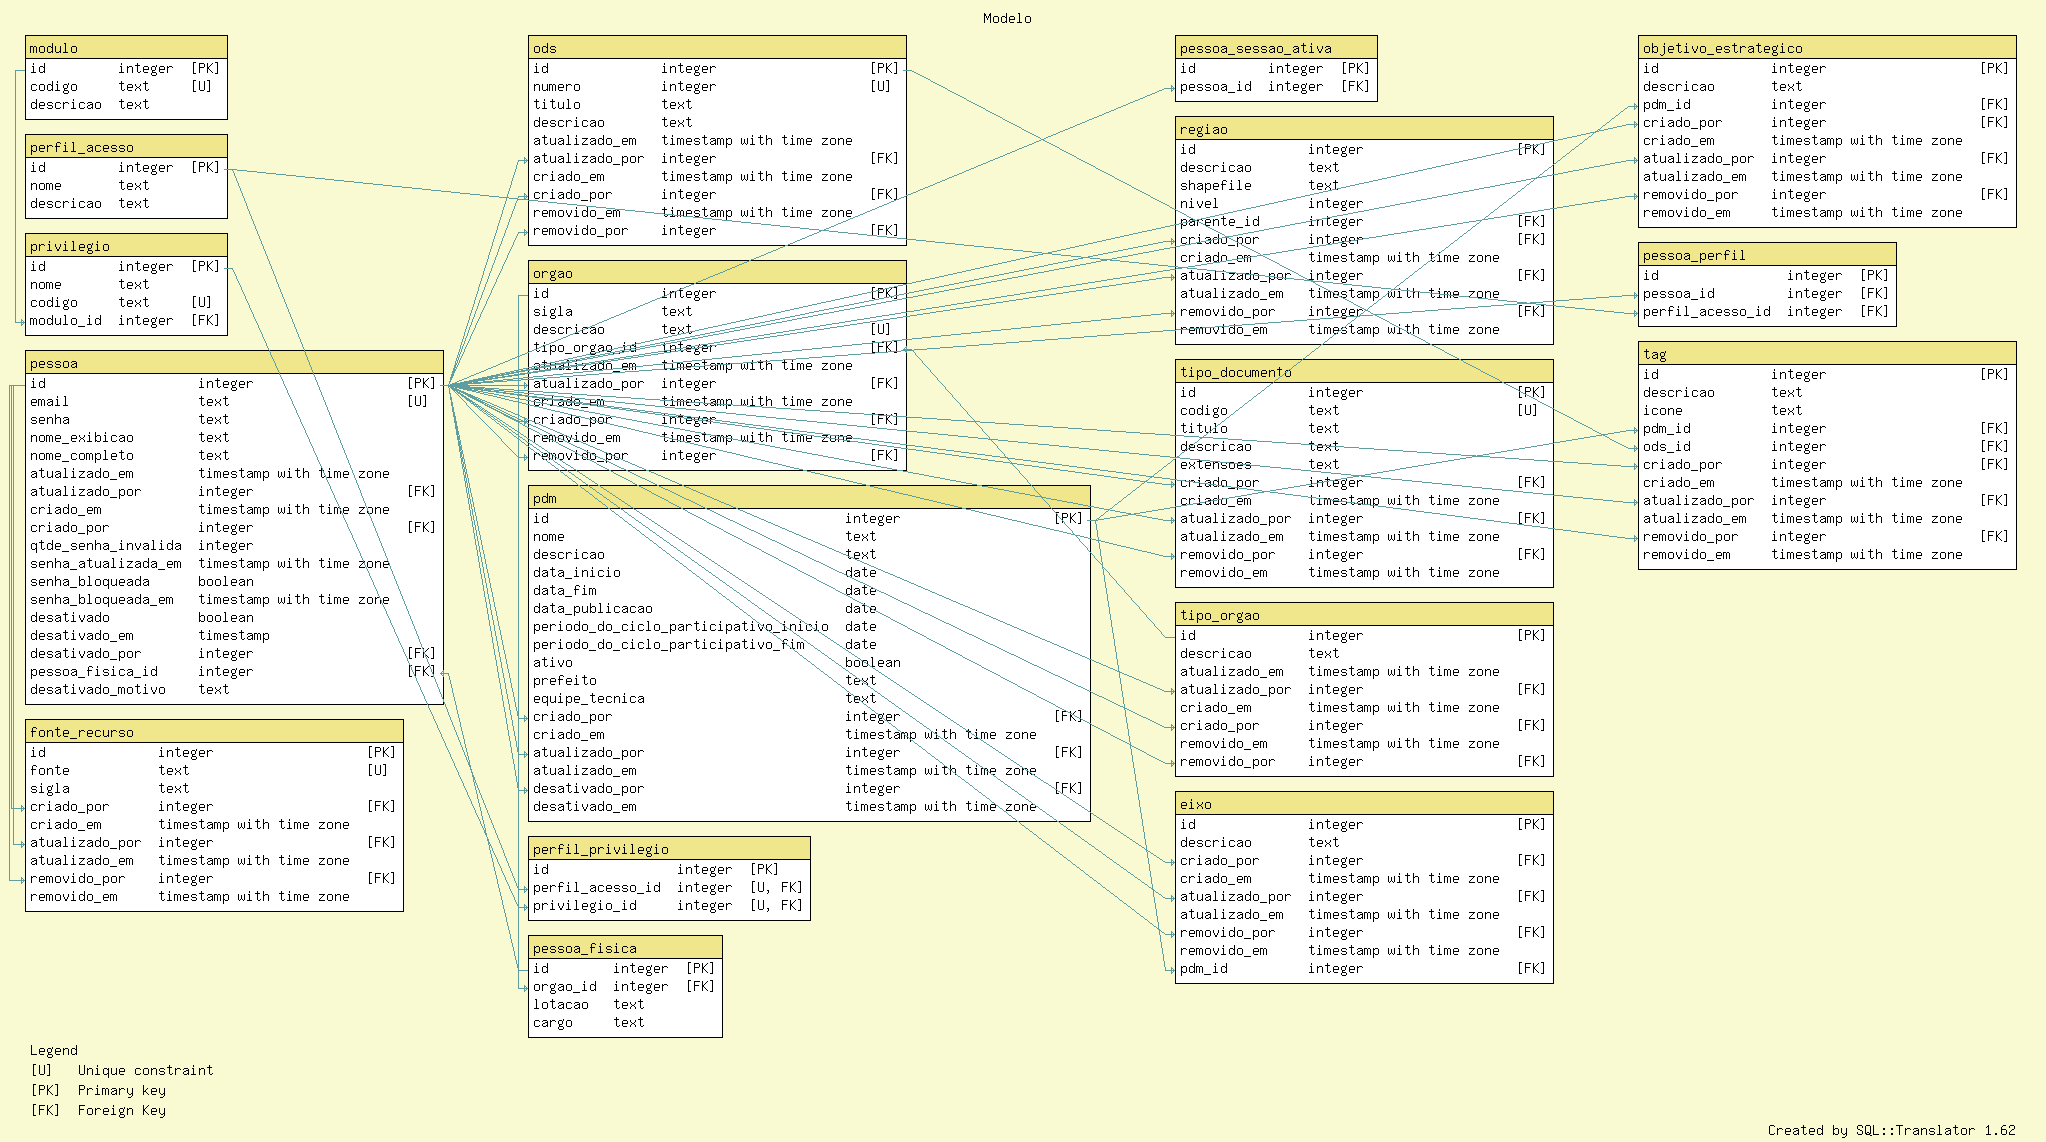
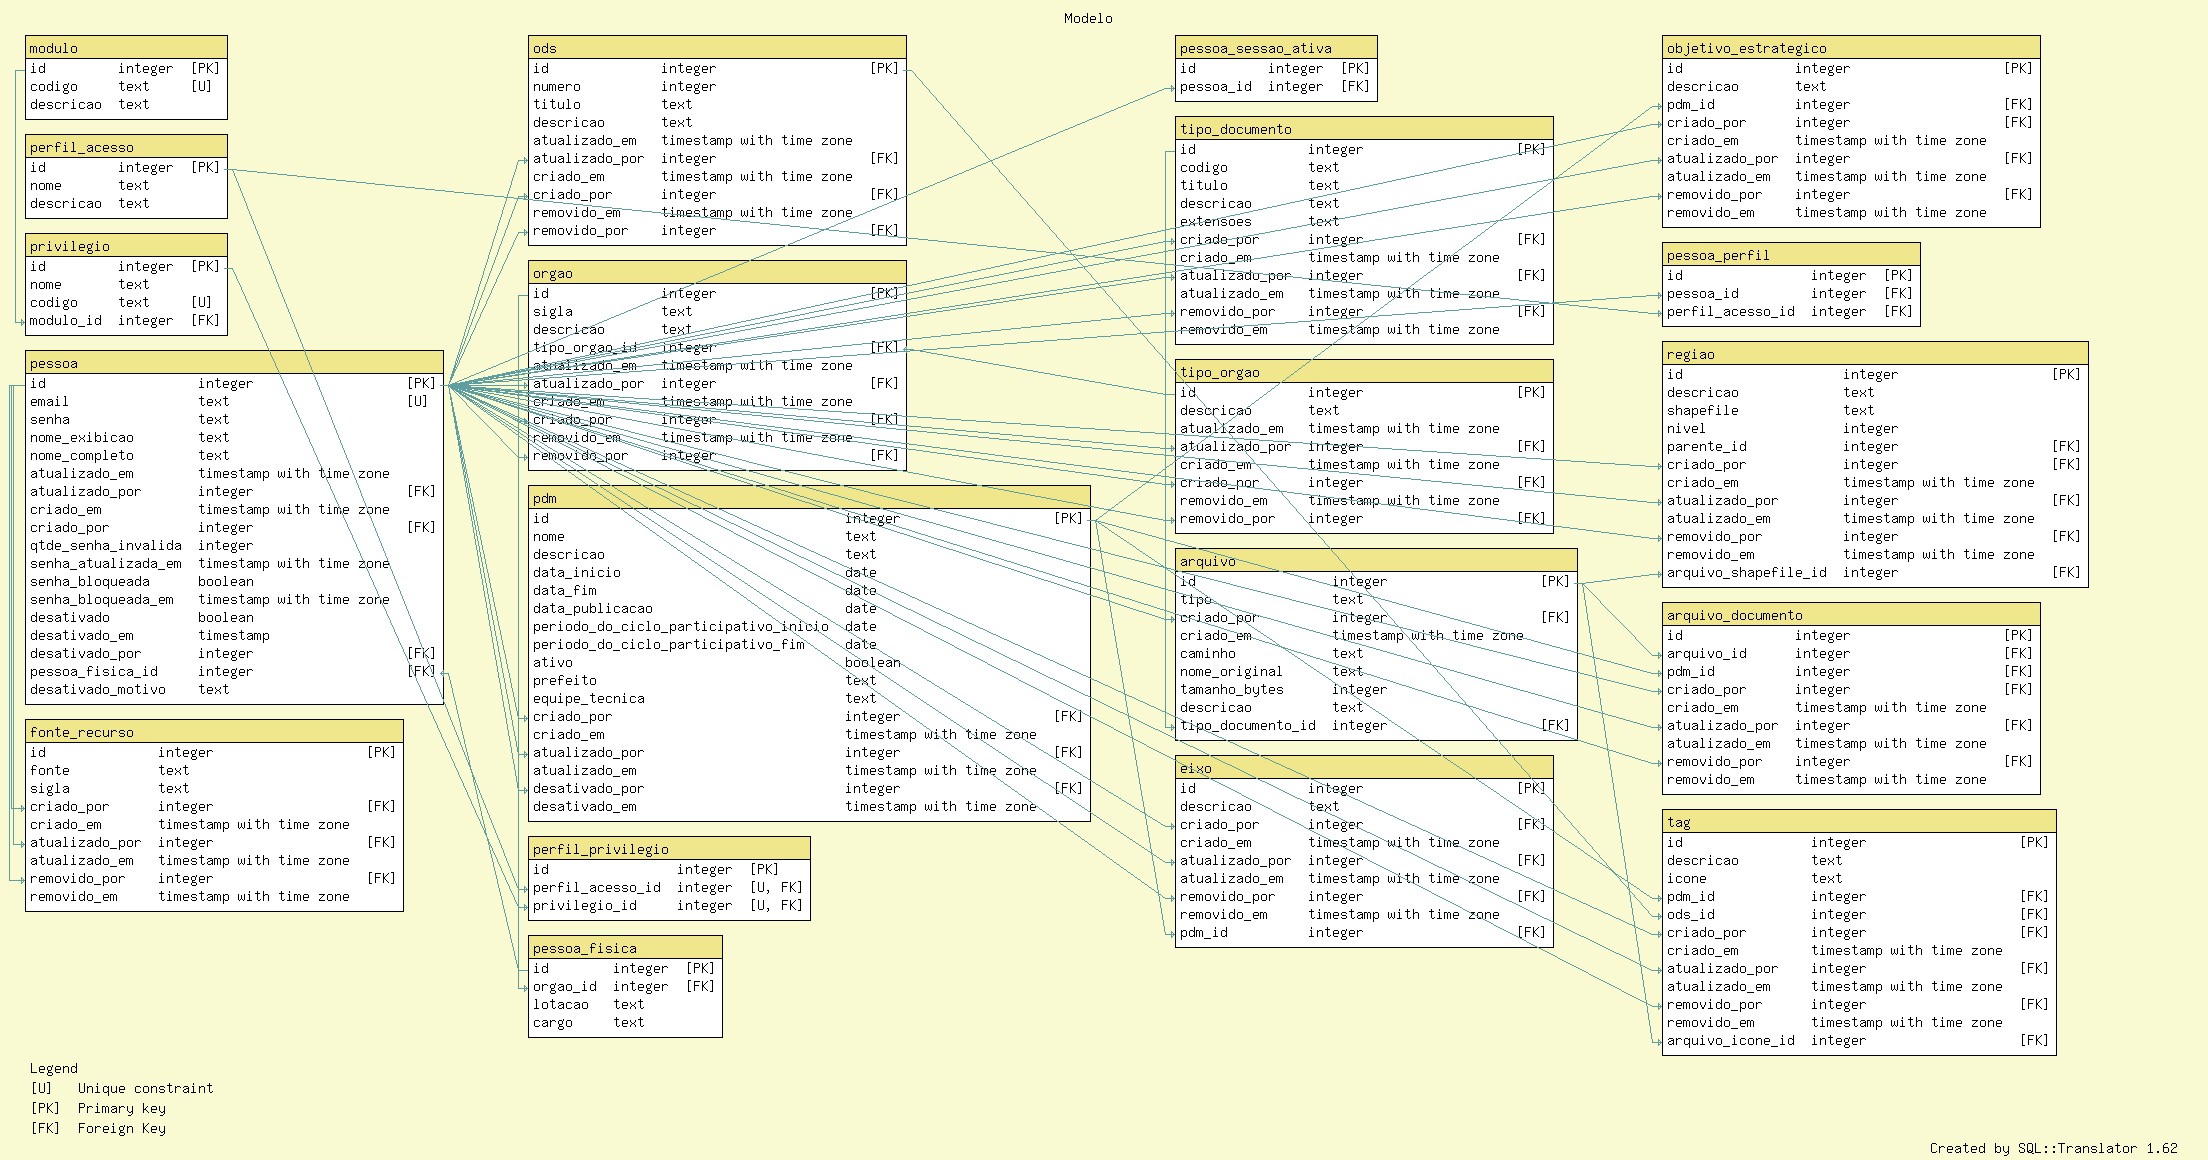
Update schema + upload do icone da tag

diff --git a/backend/src/tag/tag.service.ts b/backend/src/tag/tag.service.ts
@@ -1,20 +1,33 @@
 import { Injectable, Logger } from '@nestjs/common';
 import { PessoaFromJwt } from 'src/auth/models/PessoaFromJwt';
 import { PrismaService } from 'src/prisma/prisma.service';
+import { UploadService } from 'src/upload/upload.service';
 import { CreateTagDto } from './dto/create-tag.dto';
 import { UpdateTagDto } from './dto/update-tag.dto';
 
 @Injectable()
 export class TagService {
-    constructor(private readonly prisma: PrismaService) { }
+    constructor(
+        private readonly prisma: PrismaService,
+        private readonly uploadService: UploadService,
+    ) { }
 
     async create(createTagDto: CreateTagDto, user: PessoaFromJwt) {
+
+        let uploadId: number | null = null;
+        if (createTagDto.upload_icone) {
+            uploadId = this.uploadService.checkToken(createTagDto.upload_icone);
+        }
+        delete createTagDto.upload_icone;
+
+        console.log(createTagDto);
 
         const created = await this.prisma.tag.create({
             data: {
                 criado_por: user.id,
                 criado_em: new Date(Date.now()),
                 ...createTagDto,
+                arquivo_icone_id: uploadId
             },
             select: { id: true }
         });
@@ -39,13 +52,19 @@ export class TagService {
     }
 
     async update(id: number, updateTagDto: UpdateTagDto, user: PessoaFromJwt) {
+        let uploadId: number | undefined = undefined;
+        if (updateTagDto.upload_icone) {
+            uploadId = this.uploadService.checkToken(updateTagDto.upload_icone);
+        }
+        delete updateTagDto.upload_icone;
 
-        const created = await this.prisma.tag.update({
+        await this.prisma.tag.update({
             where: { id: id },
             data: {
                 atualizado_por: user.id,
                 atualizado_em: new Date(Date.now()),
                 ...updateTagDto,
+                arquivo_icone_id: uploadId
             }
         });
 

diff --git a/backend/src/upload/upload.service.ts b/backend/src/upload/upload.service.ts
@@ -6,6 +6,7 @@ import { StorageService } from 'src/upload/storage-service';
 import { CreateUploadDto } from './dto/create-upload.dto';
 import { Upload } from 'src/upload/entities/upload.entity';
 import { JwtService } from '@nestjs/jwt';
+import { UploadBody } from 'src/upload/entities/upload.body';
 
 
 @Injectable()
@@ -67,9 +68,23 @@ export class UploadService {
     async getToken(id: number): Promise<Upload> {
         return {
             upload_token: this.jwtService.sign({
-                arquivo_id: id
+                arquivo_id: id,
+                aud: 'upload'
             }, { expiresIn: '30 days' }),
         } as Upload;
+    }
+
+    checkToken(token: string): number {
+        let decoded: UploadBody | null = null;
+        try {
+            decoded = this.jwtService.decode(token) as UploadBody;
+        } catch (error) {
+            console.log(error)
+        }
+        if (!decoded || decoded.aud != 'upload')
+            throw new HttpException('upload_token inválido', 400);
+
+        return decoded.arquivo_id;
     }
 
 }

diff --git a/backend/src/tag/tag.module.ts b/backend/src/tag/tag.module.ts
@@ -1,10 +1,14 @@
 import { Module } from '@nestjs/common';
-import { TagService } from './tag.service';
-import { TagController } from './tag.controller';
 import { PrismaModule } from 'src/prisma/prisma.module';
+import { UploadModule } from 'src/upload/upload.module';
+import { TagController } from './tag.controller';
+import { TagService } from './tag.service';
 
 @Module({
-    imports: [PrismaModule],
+    imports: [
+        PrismaModule,
+        UploadModule
+    ],
     controllers: [TagController],
     providers: [TagService]
 })

diff --git a/backend/src/tag/dto/create-tag.dto.ts b/backend/src/tag/dto/create-tag.dto.ts
@@ -10,11 +10,11 @@ export class CreateTagDto {
     descricao: string
 
     /**
-    * Descrição
+    * Upload do Ícone
     */
     @IsOptional()
-    @IsString({ message: '$property| ícone: path da url?' })
-    icone?: string | null
+    @IsString({ message: '$property| upload_token de um arquivo de ícone' })
+    upload_icone?: string
 
     /**
     * ID do PDM

diff --git a/backend/src/upload/upload.module.ts b/backend/src/upload/upload.module.ts
@@ -14,6 +14,7 @@ import { JwtModule } from '@nestjs/jwt';
         }),
     ],
     controllers: [UploadController],
-    providers: [UploadService, StorageService]
+    providers: [UploadService, StorageService],
+    exports: [UploadService]
 })
 export class UploadModule { }

diff --git a/backend/src/upload/entities/upload.body.ts b/backend/src/upload/entities/upload.body.ts
@@ -1,0 +1,4 @@
+export class UploadBody {
+    arquivo_id: number
+    aud: string
+}
